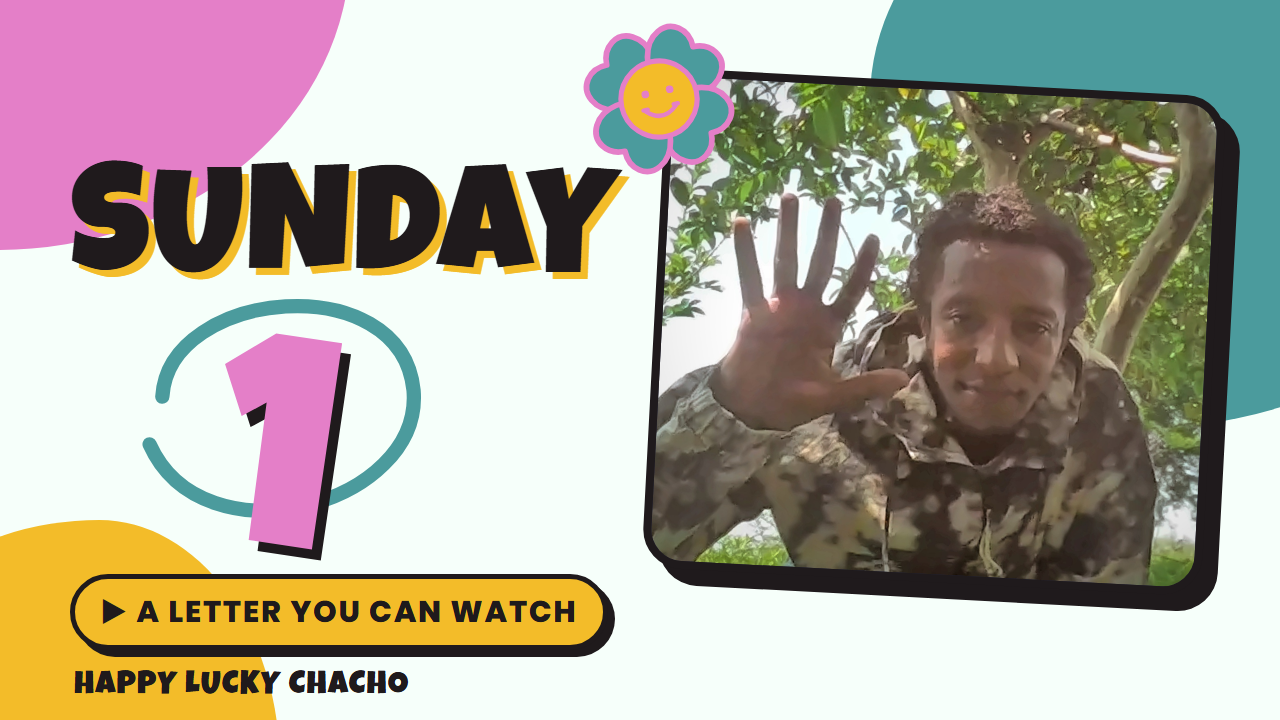
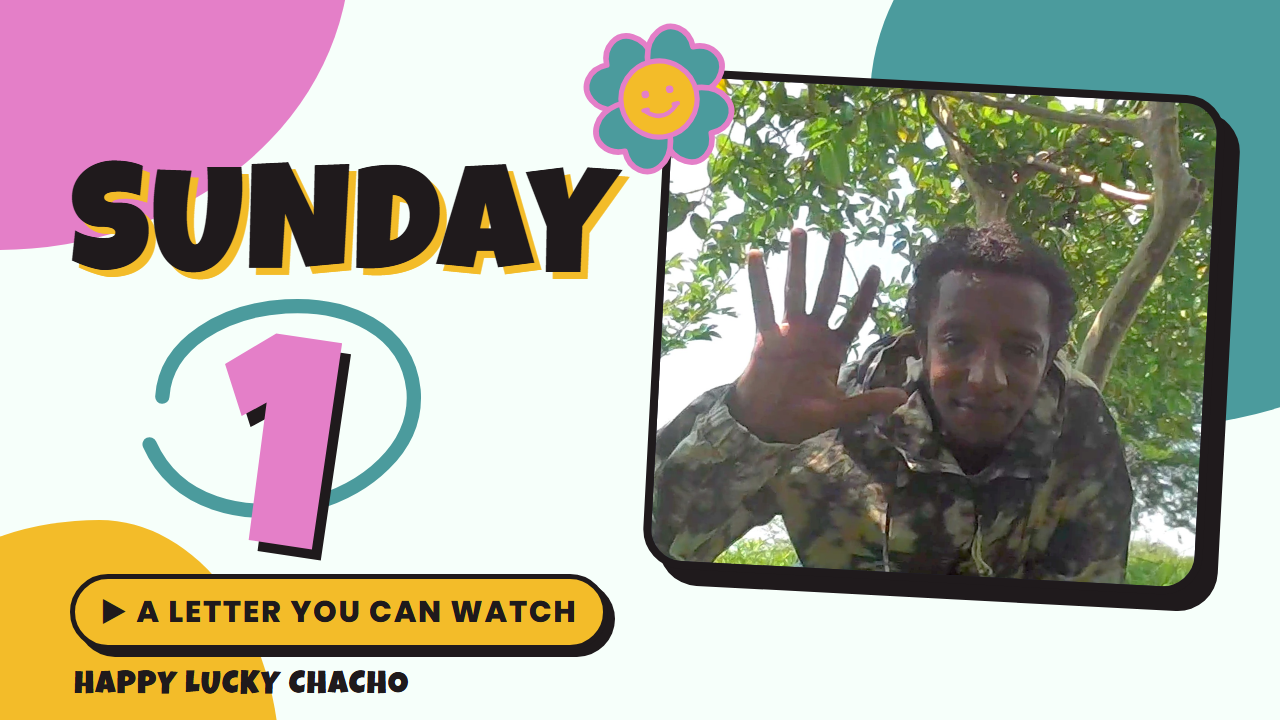
design: photo-led light thumbnail for Sunday 1; neutral photo treatment (no warm tone)
Variants c and d re-rendered with the same neutral still.

Changed region(s): [[0.5, 0.0917, 0.9688, 0.825]]

diff --git a/design/thumbnails/sunday-1.html b/design/thumbnails/sunday-1.html
@@ -79,12 +79,27 @@
   .d .one svg{position:absolute;inset:-24px -70px;width:calc(100% + 140px);height:calc(100% + 48px);color:var(--teal);overflow:visible}
   .d .pill{left:70px;top:574px;background:var(--gold);color:var(--ink);font-size:30px;padding:10px 26px}
   .d .brand{left:74px;top:662px;color:var(--ink);font-size:32px}
+
+  /* ---------- E: light, the photo is the thumbnail; text in a narrow column ---------- */
+  body.e{background:var(--mint);color:var(--ink)}
+  .e .b1{width:430px;height:400px;left:-200px;top:-230px;background:var(--rose)}
+  .e .b2{width:380px;height:350px;left:-150px;bottom:-190px;background:var(--gold);border-radius:58% 42% 40% 60%/50% 62% 38% 50%}
+  .e .b3{display:none}
+  .e .photo{position:absolute;left:412px;top:-30px;width:920px;height:780px;border:9px solid var(--ink);border-radius:56px 0 0 56px;box-shadow:-14px 14px 0 var(--teal);transform:rotate(-2deg);overflow:hidden;background:#223}
+  .e .photo img{width:100%;height:100%;object-fit:cover;object-position:38% 40%;display:block}
+  .e .logo{width:150px;height:150px;left:336px;top:22px;transform:rotate(-12deg);z-index:3}
+  .e h1{position:absolute;left:40px;top:154px;font-size:86px;color:var(--ink);text-shadow:5px 5px 0 var(--gold)}
+  .e .one{position:absolute;left:96px;top:232px;width:210px;height:250px;display:grid;place-items:center}
+  .e .one b{font-family:"Luckiest Guy",cursive;font-weight:400;font-size:270px;line-height:1;color:var(--rose);text-shadow:9px 9px 0 var(--ink);transform:translateY(18px) rotate(6deg);display:block}
+  .e .one svg{position:absolute;inset:-18px -62px;width:calc(100% + 124px);height:calc(100% + 36px);color:var(--teal);overflow:visible}
+  .e .pill{left:36px;top:528px;background:var(--gold);color:var(--ink);font-size:19px;padding:9px 16px;gap:10px;border-width:4px;box-shadow:5px 5px 0 var(--ink);letter-spacing:.04em}
+  .e .brand{left:42px;top:622px;color:var(--ink);font-size:25px}
 </style>
 </head>
 <body>
 <script>
   const q = new URLSearchParams(location.search).get("v");
-  const v = ["b", "c", "d"].includes(q) ? q : "a";
+  const v = ["b", "c", "d", "e"].includes(q) ? q : "a";
   document.body.className = v;
 </script>
 
@@ -136,7 +151,7 @@
 </template>
 
 <script>
-  document.body.appendChild(document.getElementById("t" + (v === "d" ? "c" : v)).content.cloneNode(true));
+  document.body.appendChild(document.getElementById("t" + (v === "d" || v === "e" ? "c" : v)).content.cloneNode(true));
 </script>
 </body>
 </html>
